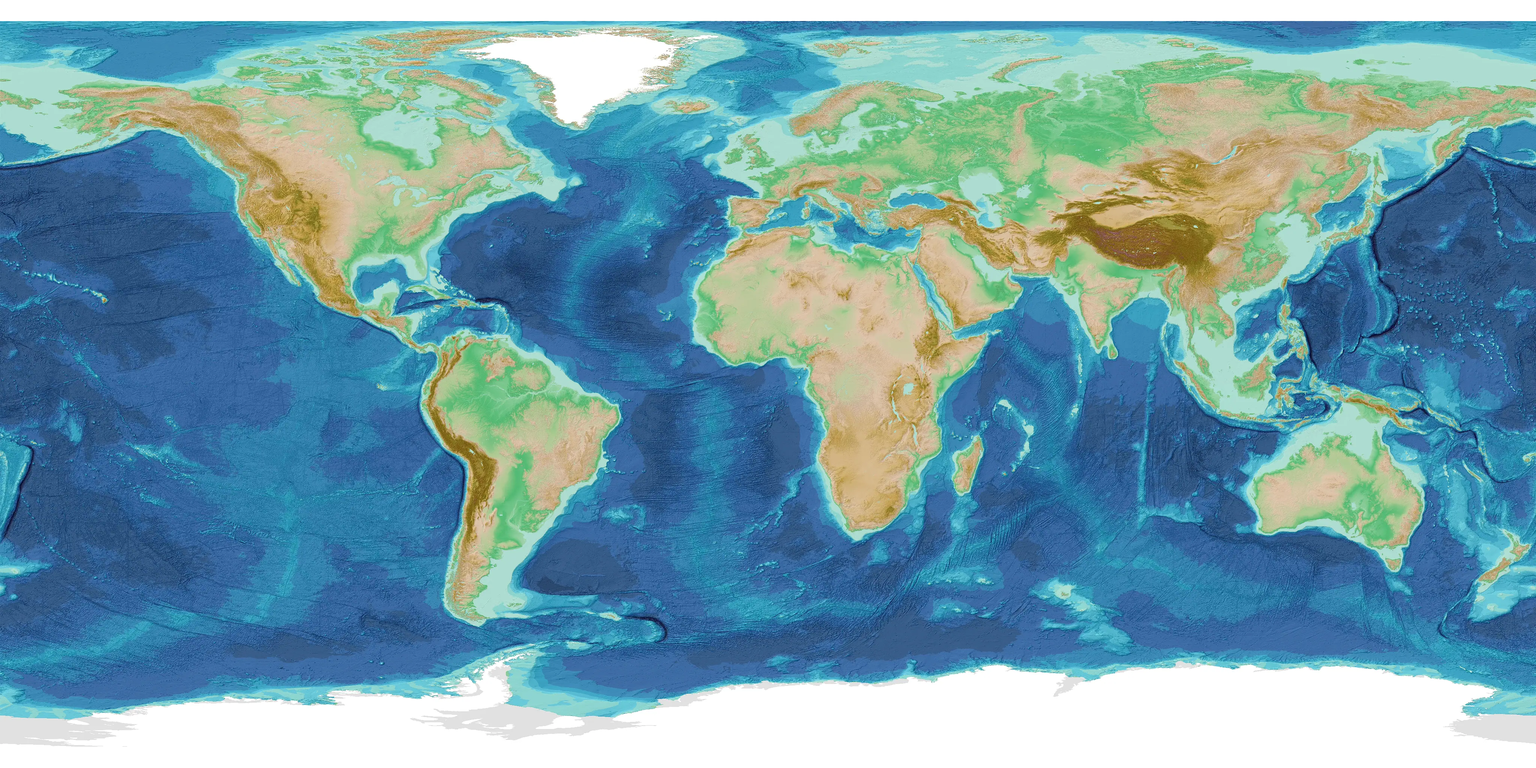
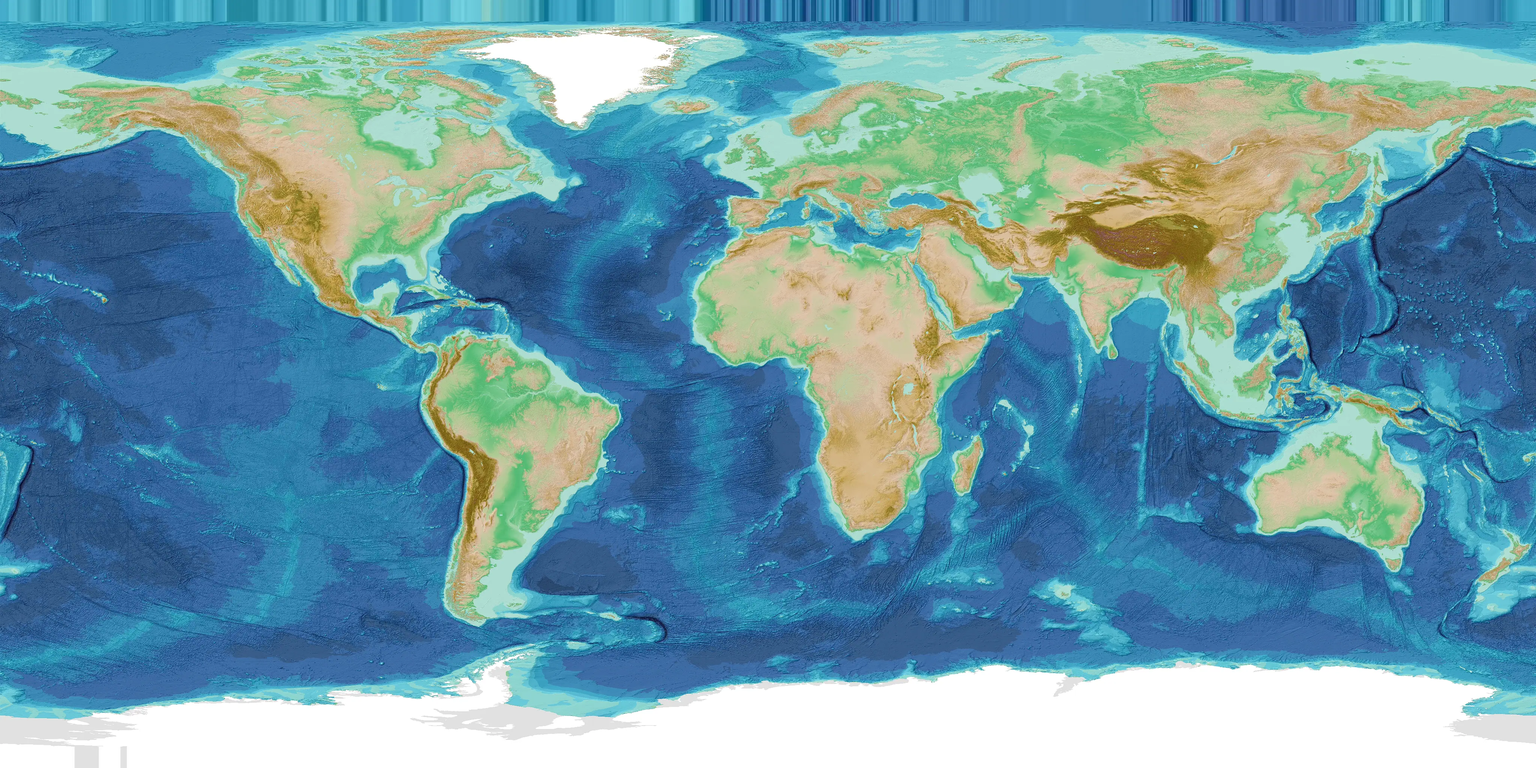
fix(map): carry the bathymetry to the poles and stop wasting the globe's budget

Changed region(s): [[0.0, 0.0, 1.0, 0.0312], [0.0312, 0.9688, 0.0938, 1.0]]

diff --git a/src/frontend/src/lib/bathymetry.ts b/src/frontend/src/lib/bathymetry.ts
@@ -51,7 +51,18 @@ interface Snapshot {
   canvas: HTMLCanvasElement;
   W: number;
   H: number;
+  box: Box;
   ref: [number, number][];
+}
+
+// The screen rect a raster covers. The globe is a disc in a wider canvas, so
+// rasterising the whole canvas spends up to half the budget on pixels that are
+// not the sphere; confining it to these bounds buys ~1:1 for the same cost.
+interface Box {
+  x: number;
+  y: number;
+  w: number;
+  h: number;
 }
 
 interface Grid {
@@ -149,12 +160,13 @@ export class Bathymetry {
       const keep = this.snap;
       const t = keep && keep.W === W && keep.H === H ? similarity(keep.ref, pr) : null;
       if (keep && t && covered(t, keep, pr, W, H)) {
-        ctx.drawImage(keep.canvas, t.dx, t.dy, t.g * keep.W, t.g * keep.H);
+        const b = keep.box;
+        ctx.drawImage(keep.canvas, t.g * b.x + t.dx, t.g * b.y + t.dy, t.g * b.w, t.g * b.h);
         return;
       }
     }
-    const raster = this.reproject(pr, W, H, interact, dpr);
-    if (raster) ctx.drawImage(raster, 0, 0, W, H);
+    const out = this.reproject(pr, W, H, interact, dpr);
+    if (out) ctx.drawImage(out.canvas, out.box.x, out.box.y, out.box.w, out.box.h);
   }
 
   // Flat view: one drawImage of the pre-projected raster.
@@ -272,7 +284,7 @@ export class Bathymetry {
     H: number,
     interact: boolean,
     dpr: number,
-  ): HTMLCanvasElement | null {
+  ): { canvas: HTMLCanvasElement; box: Box } | null {
     const invert = pr.invert;
     if (!invert) return null;
 
@@ -281,13 +293,16 @@ export class Bathymetry {
 
     if (!interact) this.snap = null;
 
-    const dw = W * dpr,
-      dh = H * dpr;
+    const box = sphereBox(pr, W, H);
+    if (!box) return null;
+
+    const dw = box.w * dpr,
+      dh = box.h * dpr;
     const budget = interact ? BUDGET_DRAG : BUDGET_IDLE;
     const scale = Math.min(1, Math.sqrt(budget / Math.max(1, dw * dh)));
     const rw = Math.max(2, Math.round(dw * scale));
     const rh = Math.max(2, Math.round(dh * scale));
-    const perCss = rw / W;
+    const perCss = rw / box.w;
 
     const cols = Math.ceil(rw / CELL);
     const rows = Math.ceil(rh / CELL);
@@ -299,11 +314,11 @@ export class Bathymetry {
     let any = false;
     let rowStart = 0;
     for (let j = 0; j <= rows; j++) {
-      const y = (j * CELL) / perCss;
+      const y = box.y + (j * CELL) / perCss;
       let prev = NaN;
       let first = NaN;
       for (let i = 0; i <= cols; i++) {
-        const x = (i * CELL) / perCss;
+        const x = box.x + (i * CELL) / perCss;
         const k = j * (cols + 1) + i;
         const ll = invert([x, y]);
         if (!ll || !isFinite(ll[0]) || !isFinite(ll[1]) || Math.abs(ll[1]) > LAT_MAX) {
@@ -388,8 +403,9 @@ export class Bathymetry {
           px[o00 + 1] * w00 + px[o10 + 1] * w10 + px[o01 + 1] * w01 + px[o11 + 1] * w11;
         dst[d + 2] =
           px[o00 + 2] * w00 + px[o10 + 2] * w10 + px[o01 + 2] * w01 + px[o11 + 2] * w11;
-        dst[d + 3] =
-          px[o00 + 3] * w00 + px[o10 + 3] * w10 + px[o01 + 3] * w01 + px[o11 + 3] * w11;
+        // The bake carries the raster to both poles, so every sample is opaque and
+        // interpolating alpha would be four multiplies to arrive back at 255.
+        dst[d + 3] = 255;
         drew = true;
       }
     }
@@ -406,9 +422,9 @@ export class Bathymetry {
         }
         ref.push([xy[0], xy[1]]);
       }
-      this.snap = ref.length === REF.length ? { canvas: out, W, H, ref } : null;
+      this.snap = ref.length === REF.length ? { canvas: out, W, H, box, ref } : null;
     }
-    return out;
+    return { canvas: out, box };
   }
 
   private buffer(w: number, h: number, drag: boolean): HTMLCanvasElement | null {
@@ -533,16 +549,24 @@ function similarity(was: [number, number][], pr: GeoProjection): Move | null {
 }
 
 function covered(t: Move, s: Snapshot, pr: GeoProjection, W: number, H: number): boolean {
-  const b = geoPath(pr).bounds({ type: 'Sphere' });
-  const nx0 = Math.max(0, b[0][0]),
-    ny0 = Math.max(0, b[0][1]),
-    nx1 = Math.min(W, b[1][0]),
-    ny1 = Math.min(H, b[1][1]);
-  if (nx1 <= nx0 || ny1 <= ny0) return true;
+  const now = sphereBox(pr, W, H);
+  if (!now) return true;
+  const b = s.box;
   return (
-    t.dx <= nx0 + REF_TOL &&
-    t.dy <= ny0 + REF_TOL &&
-    t.g * s.W + t.dx >= nx1 - REF_TOL &&
-    t.g * s.H + t.dy >= ny1 - REF_TOL
+    t.g * b.x + t.dx <= now.x + REF_TOL &&
+    t.g * b.y + t.dy <= now.y + REF_TOL &&
+    t.g * (b.x + b.w) + t.dx >= now.x + now.w - REF_TOL &&
+    t.g * (b.y + b.h) + t.dy >= now.y + now.h - REF_TOL
   );
+}
+
+// The sphere's on-screen bounds, clipped to the canvas. Null when it is off
+// screen entirely, which leaves the sea colour already painted underneath.
+function sphereBox(pr: GeoProjection, W: number, H: number): Box | null {
+  const b = geoPath(pr).bounds({ type: 'Sphere' });
+  const x = Math.max(0, Math.floor(b[0][0]));
+  const y = Math.max(0, Math.floor(b[0][1]));
+  const w = Math.min(W, Math.ceil(b[1][0])) - x;
+  const h = Math.min(H, Math.ceil(b[1][1])) - y;
+  return w > 0 && h > 0 ? { x, y, w, h } : null;
 }
